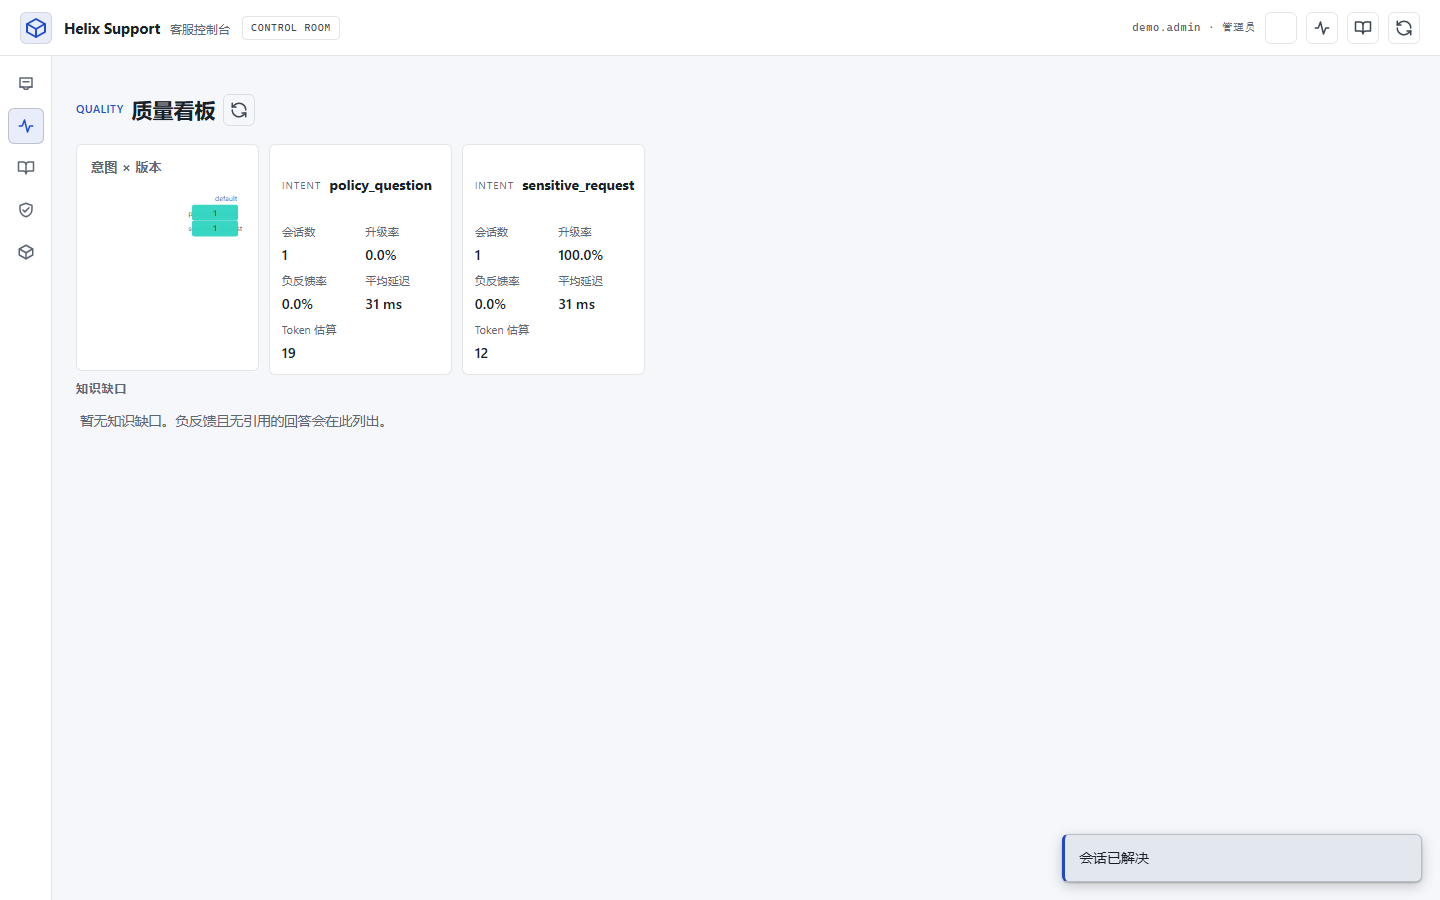
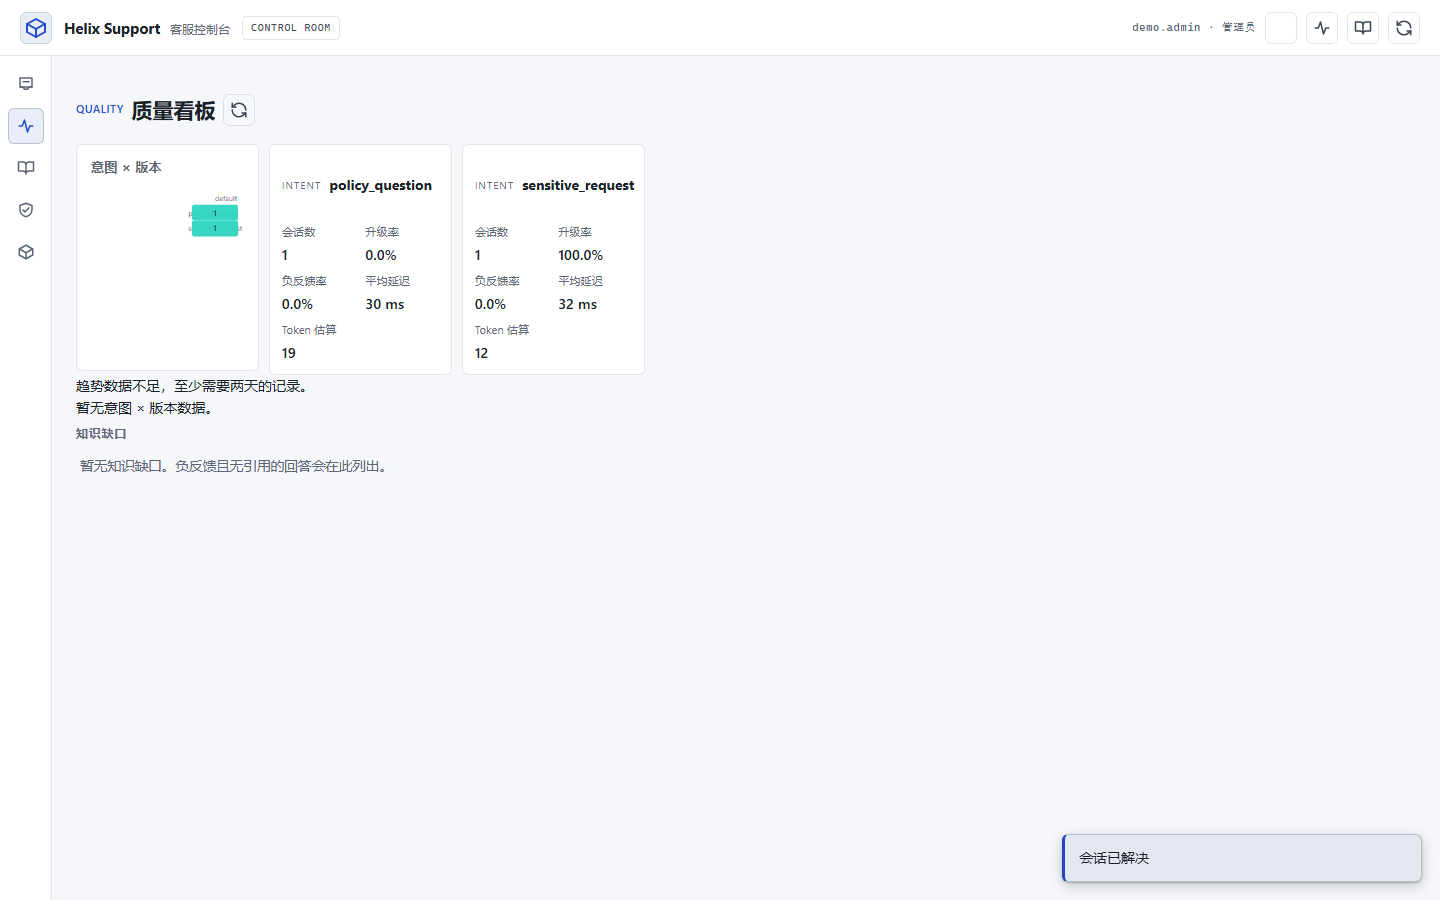
docs: refresh README screenshots to v1.4.0 SaaS skin
Re-capture operator-workspace, operator-handoff, quality-dashboard and
knowledge-operations against the v1.4.0 design (3-tier @layer tokens +
motion tokens + desktop splash overlay) on a clean DB. web-chat-mobile
and tenant-admin are byte-identical so they are left untouched. Update the
caption and readme_screenshots.py header to reference v1.4.0.

Changed region(s): [[0.0312, 0.4044, 0.2812, 0.5289], [0.25, 0.3111, 0.2812, 0.3422]]

diff --git a/scripts/readme_screenshots.py b/scripts/readme_screenshots.py
@@ -1,9 +1,10 @@
-"""Capture the six README screenshots against the v1.3.9 professional SaaS skin.
+"""Capture the six README screenshots against the v1.4.0 professional SaaS skin.
 
 Mirrors the interaction paths in tests/ui_smoke.py (conversation + handoff)
 and scripts/visual_gate.py (knowledge view, mobile queue, widget), but pins
 each capture to docs/assets/screenshots/ at a stable viewport so the README
-images reflect the current design rather than the retired Art Deco palette.
+images reflect the current design (3-tier @layer tokens + motion + desktop
+splash overlay) rather than the retired Art Deco palette.
 
 Usage: HELIX_BASE_URL=http://127.0.0.1:8766 python scripts/readme_screenshots.py
 """

diff --git a/README.md b/README.md
@@ -67,7 +67,7 @@ cd ../src-tauri && cargo tauri build
 
 ## 界面预览
 
-> 截图为 v1.3.9 专业 SaaS 主题（中性板岩深色 + 靛蓝强调色）。操作台支持深/浅双主题切换，下方均为深色主题。可通过 `scripts/readme_screenshots.py` 对 clean-DB 本地服务重新捕获。
+> 截图为 v1.4.0 专业 SaaS 主题（三层 @layer 设计令牌 + 动效令牌 + 桌面 splash 叠层；中性板岩深色 + 靛蓝强调色）。操作台支持深/浅双主题切换，下方均为深色主题。可通过 `scripts/readme_screenshots.py` 对 clean-DB 本地服务重新捕获。
 
 ### 人工接管与质量洞察
 
